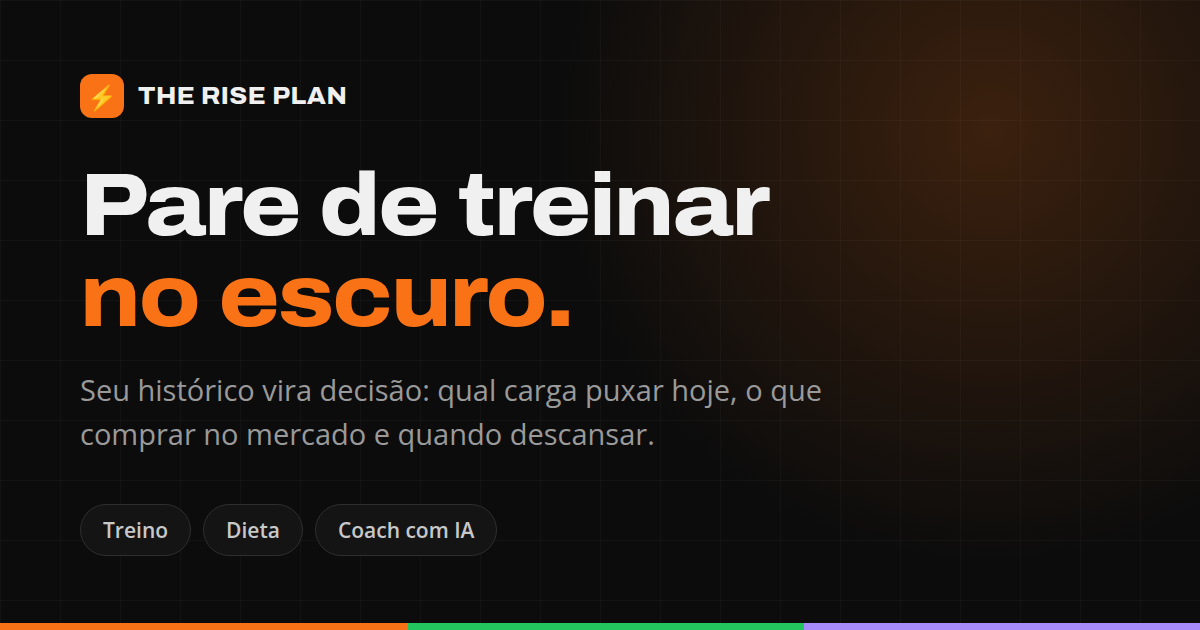
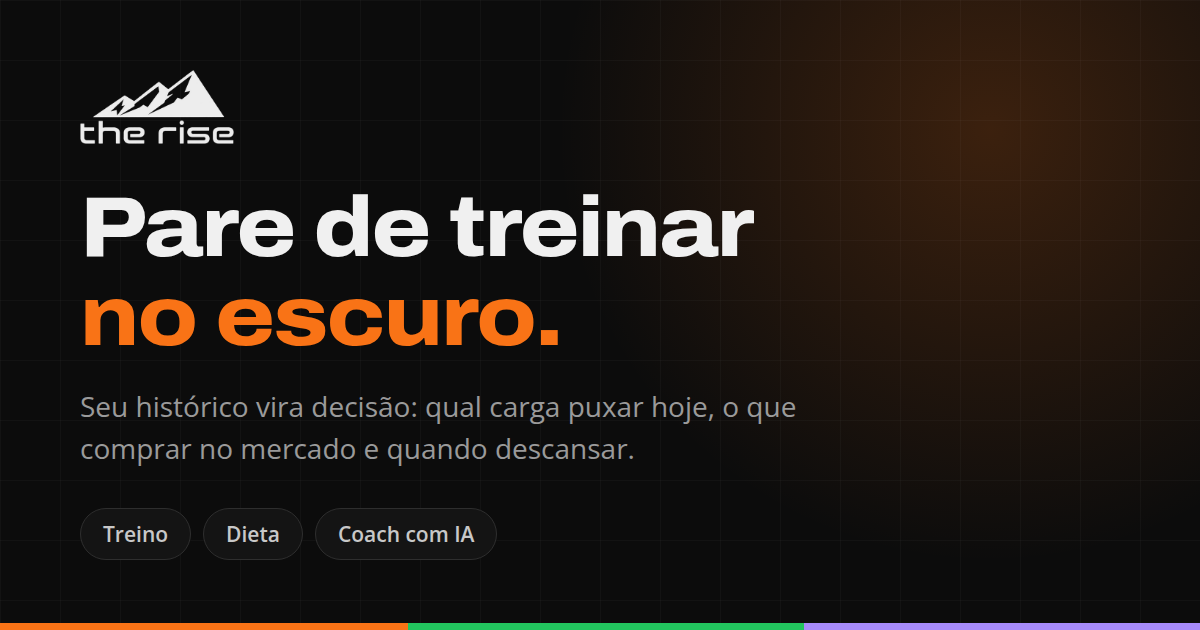
Add new PNG image for rise-mark

diff --git a/produzai/src/index.css b/produzai/src/index.css
@@ -126,6 +126,27 @@
   }
 }
 
+/* ── Marca ────────────────────────────────────────────────────────────────────
+   O logo é um PNG de tinta clara sobre transparente. O SVG antigo trazia um
+   cartão escuro embutido (`<rect fill="#0C0C0C" rx="16">`), que dispensava
+   qualquer cuidado; o novo não traz nada — ele é só a arte. O que vale para
+   TODA tela onde a marca aparece mora aqui, em vez de repetido em cada `style`.
+   ─────────────────────────────────────────────────────────────────────────── */
+.rise-brand {
+  /* Proporção declarada antes de o arquivo chegar, para o layout não mudar
+     quando ele carrega. Medido em rede lenta, o desvio hoje já é ~0 — isto é
+     garantia barata para conexão ruim, não conserto de um bug observado. */
+  aspect-ratio: 570 / 275;
+  /* Marca não é conteúdo: não se seleciona junto com o texto nem se arrasta
+     para fora do app (que num PWA instalado parece defeito). */
+  user-select: none;
+  -webkit-user-select: none;
+  -webkit-user-drag: none;
+}
+
+/* Só a montanha, sem a palavra — proporção bem mais larga. */
+.rise-brand--mark { aspect-ratio: 160 / 58; }
+
 /* Altura de tela cheia que acompanha a barra do navegador móvel.
    `100vh` no iOS é a altura COM a barra escondida: usar só ele deixa o rodapé
    da tela embaixo da barra do Safari. `dvh` sobrescreve onde houver suporte. */
@@ -192,8 +213,8 @@
   .nav-item { @apply flex items-center gap-3 px-3 py-2.5 rounded-xl text-sm font-medium transition-all duration-200 cursor-pointer w-full; }
   .nav-item.active { @apply bg-brand-600/20 text-brand-400; }
   .nav-item:not(.active) { @apply text-gray-500 hover:bg-surface-hover hover:text-gray-200; }
-  .page-title { @apply text-2xl font-bold text-white; font-family: var(--rise-font-display); font-variation-settings: "wdth" 112; letter-spacing: -0.015em; }
+  .page-title { @apply text-2xl font-bold text-white; font-family: var(--rise-font-display); font-variation-settings: "wdth" 112; letter-spacing: 0; }
   .section-label { @apply text-xs font-semibold text-gray-500 uppercase tracking-widest; }
-  .font-display { font-family: var(--rise-font-display); font-variation-settings: "wdth" 112; letter-spacing: -0.015em; }
+  .font-display { font-family: var(--rise-font-display); font-variation-settings: "wdth" 112; letter-spacing: 0; }
 }
 

diff --git a/produzai/src/rise/components/ShareCard.tsx b/produzai/src/rise/components/ShareCard.tsx
@@ -16,7 +16,24 @@ interface Props extends ShareData {
   onClose: () => void
 }
 
-function drawShareCard(canvas: HTMLCanvasElement, data: ShareData): void {
+/**
+ * Carrega uma imagem para o canvas. Devolve `null` em vez de rejeitar: o card
+ * precisa sair mesmo que a marca não carregue — o print é o produto.
+ */
+function loadImage(src: string): Promise<HTMLImageElement | null> {
+  return new Promise(resolve => {
+    const img = new Image()
+    img.onload = () => resolve(img)
+    img.onerror = () => resolve(null)
+    img.src = src
+  })
+}
+
+function drawShareCard(
+  canvas: HTMLCanvasElement,
+  data: ShareData,
+  logo: HTMLImageElement | null,
+): void {
   const ctx = canvas.getContext('2d')
   if (!ctx) return
   const W = 540
@@ -47,11 +64,19 @@ function drawShareCard(canvas: HTMLCanvasElement, data: ShareData): void {
   ctx.fillStyle = '#F97316'
   ctx.fillRect(0, 0, W, 88)
 
-  ctx.font = `bold 25px ${FONT}`
-  ctx.fillStyle = '#fff'
+  // A marca na faixa laranja. O arquivo tem tinta clara, que é o contraste
+  // certo aqui; se ele não carregar, o nome escrito faz o mesmo trabalho.
   ctx.textAlign = 'center'
   ctx.textBaseline = 'middle'
-  ctx.fillText('⚡ THE RISE PLAN', W / 2, 44)
+  if (logo) {
+    const h = 46
+    const w = (logo.width / logo.height) * h
+    ctx.drawImage(logo, (W - w) / 2, (88 - h) / 2, w, h)
+  } else {
+    ctx.font = `bold 25px ${FONT}`
+    ctx.fillStyle = '#fff'
+    ctx.fillText('THE RISE PLAN', W / 2, 44)
+  }
 
   // Week label
   ctx.font = `500 17px ${FONT}`
@@ -180,13 +205,13 @@ export function ShareCard({ onClose, ...data }: Props) {
   useEffect(() => {
     const canvas = canvasRef.current
     if (!canvas) return
-    // Draw after fonts are ready to ensure system fonts are applied
-    const run = () => drawShareCard(canvas, data)
-    if (typeof document.fonts?.ready?.then === 'function') {
-      document.fonts.ready.then(run)
-    } else {
-      run()
-    }
+    // Espera fontes E marca antes de desenhar: o canvas é exportado como está,
+    // então um desenho em duas etapas poderia ser compartilhado pela metade.
+    const fontsReady = typeof document.fonts?.ready?.then === 'function'
+      ? document.fonts.ready
+      : Promise.resolve()
+    Promise.all([fontsReady, loadImage('/rise-logo.png')])
+      .then(([, logo]) => drawShareCard(canvas, data, logo))
   // eslint-disable-next-line react-hooks/exhaustive-deps
   }, [])
 

diff --git a/produzai/src/rise/data.ts b/produzai/src/rise/data.ts
@@ -69,7 +69,16 @@ export const safePlus = (
 // ── Typography ───────────────────────────────────────────────────────────────
 // Archivo is the display face (titles + signature numbers); Open Sans the body.
 // The display look comes from the EXPANDED width axis (wdth 112) — spread
-// `displayStyle` onto a heading/number and keep your own fontSize/weight/color.
+// `displayStyle` onto a heading/number and keep your own fontSize/color.
+//
+// PESO E TRACKING VÊM DAQUI, não do ponto de uso. A marca ("the rise") é
+// monolinear, arredondada e de tracking aberto; títulos em 800 com tracking
+// negativo puxavam para o lado oposto e a tela ficava com duas vozes. 700 e
+// tracking neutro aproximam sem trocar de fonte.
+//
+// Todos os pontos de uso escrevem `fontWeight: ..., ...displayStyle`, com o
+// spread por último — então o peso definido aqui vence. Para um número que
+// precise mesmo de 800, coloque o `fontWeight` DEPOIS do spread.
 export const F = {
   display: '"Archivo", "Open Sans", system-ui, sans-serif',
   body:    '"Open Sans", system-ui, sans-serif',
@@ -78,7 +87,8 @@ export const F = {
 export const displayStyle: CSSProperties = {
   fontFamily: F.display,
   fontVariationSettings: '"wdth" 112',
-  letterSpacing: '-0.015em',
+  letterSpacing: 0,
+  fontWeight: T.weight.bold,
 }
 
 export type Page =

diff --git a/produzai/src/rise/RisePlan.tsx b/produzai/src/rise/RisePlan.tsx
@@ -184,15 +184,16 @@ export function RisePlan() {
           {!isTablet && (
             <div style={{ padding: "0 10px 20px" }}>
               <img
-                src="/rise-plan-logo.svg"
+                className="rise-brand"
+                src="/rise-logo.png"
                 alt="The Rise Plan"
-                style={{ width: "100%", height: "auto", display: "block", borderRadius: T.radius.md }}
+                style={{ width: "100%", height: "auto", display: "block" }}
               />
             </div>
           )}
           {isTablet && (
             <div style={{ display: "flex", justifyContent: "center", paddingBottom: 16 }}>
-              <img src="/rise-plan-logo.svg" alt="Rise" style={{ width: 36, height: 36, borderRadius: T.radius.sm, objectFit: "cover" }} />
+              <img className="rise-brand rise-brand--mark" src="/rise-mark.png" alt="Rise" style={{ width: 44 }} />
             </div>
           )}
 
@@ -372,7 +373,7 @@ export function RisePlan() {
               >
                 ☰
               </button>
-              <img src="/rise-plan-logo.svg" alt="The Rise Plan" style={{ height: 28, borderRadius: T.radius.xs }} />
+              <img className="rise-brand" src="/rise-logo.png" alt="The Rise Plan" style={{ height: 30 }} />
               <button
                 onClick={() => navigate("perfil")}
                 aria-label="Ir para perfil"

diff --git a/produzai/src/rise/pages/Login.tsx b/produzai/src/rise/pages/Login.tsx
@@ -1,5 +1,5 @@
 import { useState } from 'react'
-import { T, C, displayStyle, safeInset } from '../data'
+import { T, C, safeInset } from '../data'
 import { useAuthStore } from '../../store/useAuthStore'
 import { PolicyOverlay } from '../components/ConsentModal'
 
@@ -104,14 +104,13 @@ export function Login({ initialMode = 'login', onBack }: Props) {
 
         {/* Brand */}
         <div style={{ textAlign: 'center', marginBottom: 36 }}>
-          <div style={{
-            width: 60, height: 60, borderRadius: T.radius['2xl'],
-            background: C.orange,
-            display: 'flex', alignItems: 'center', justifyContent: 'center',
-            fontSize: 28, margin: '0 auto 16px',
-          }}>⚡</div>
-          <div style={{ fontSize: T.text['5xl'], fontWeight: T.weight.extrabold, color: C.text, ...displayStyle }}>The Rise Plan</div>
-          <div style={{ fontSize: T.text.md, color: C.muted, marginTop: 4 }}>Performance Total</div>
+          <img
+            className="rise-brand"
+            src="/rise-logo.png"
+            alt="The Rise Plan"
+            style={{ width: 190, display: 'block', margin: '0 auto 12px' }}
+          />
+          <div style={{ fontSize: T.text.md, color: C.muted }}>Performance Total</div>
         </div>
 
         {/* Card */}

diff --git a/produzai/src/rise/pages/Onboarding.tsx b/produzai/src/rise/pages/Onboarding.tsx
@@ -204,7 +204,7 @@ function ConversationalOnboarding({ onSwitchToQuick }: { onSwitchToQuick: () => 
 
         {/* Header */}
         <div style={{ textAlign: 'center', marginBottom: 18 }}>
-          <img src="/rise-plan-logo.svg" alt="The Rise Plan" style={{ width: 120, borderRadius: T.radius.lg, marginBottom: 12 }} />
+          <img className="rise-brand" src="/rise-logo.png" alt="The Rise Plan" style={{ width: 130, marginBottom: 12 }} />
           <div style={{ fontSize: T.text['4xl'], fontWeight: T.weight.extrabold, color: C.text, marginBottom: 4 }}>
             {plan ? 'Seu sistema inicial está pronto ✨' : 'Vamos te conhecer'}
           </div>
@@ -592,7 +592,7 @@ function QuickOnboarding({ onSwitchToChat }: { onSwitchToChat?: () => void }) {
 
         {/* Logo */}
         <div style={{ textAlign: 'center', marginBottom: 32 }}>
-          <img src="/rise-plan-logo.svg" alt="The Rise Plan" style={{ width: 160, borderRadius: T.radius.lg, marginBottom: 16 }} />
+          <img className="rise-brand" src="/rise-logo.png" alt="The Rise Plan" style={{ width: 175, marginBottom: 16 }} />
           <div style={{ fontSize: T.text['5xl'], fontWeight: T.weight.extrabold, color: C.text, marginBottom: 6, ...displayStyle }}>
             Olá, {firstName}! 👋
           </div>

diff --git a/produzai/vite.config.ts b/produzai/vite.config.ts
@@ -62,8 +62,11 @@ export default defineConfig(({ mode }) => {
         lang: 'pt-BR',
         categories: ['fitness', 'health', 'lifestyle'],
         icons: [
-          { src: '/favicon.svg', sizes: 'any', type: 'image/svg+xml', purpose: 'any' },
-          { src: '/favicon.svg', sizes: 'any', type: 'image/svg+xml', purpose: 'maskable' },
+          { src: '/pwa-192.png', sizes: '192x192', type: 'image/png', purpose: 'any' },
+          { src: '/pwa-512.png', sizes: '512x512', type: 'image/png', purpose: 'any' },
+          // A `maskable` recua a arte: o sistema recorta até 20% de cada borda
+          // para encaixar o ícone no formato do aparelho.
+          { src: '/pwa-maskable-512.png', sizes: '512x512', type: 'image/png', purpose: 'maskable' },
         ],
       },
     }),

diff --git a/produzai/src/lib/notifications.ts b/produzai/src/lib/notifications.ts
@@ -21,7 +21,7 @@ export async function requestPermission(): Promise<NotificationPermission> {
 
 export function show(title: string, body: string) {
   if (Notification.permission !== 'granted') return
-  new Notification(title, { body, icon: '/favicon.svg', badge: '/favicon.svg' })
+  new Notification(title, { body, icon: '/pwa-192.png', badge: '/favicon.png' })
 }
 
 // ── Periodic Background Sync ──────────────────────────────────────────────────

diff --git a/produzai/index.html b/produzai/index.html
@@ -5,8 +5,8 @@
     <meta name="viewport" content="width=device-width, initial-scale=1.0, viewport-fit=cover">
 
     <!-- PWA primary -->
-    <link rel="icon" type="image/svg+xml" href="/favicon.svg">
-    <link rel="apple-touch-icon" href="/favicon.svg">
+    <link rel="icon" type="image/png" href="/favicon.png">
+    <link rel="apple-touch-icon" href="/apple-touch-icon.png">
     <meta name="theme-color" content="#F97316">
 
     <!-- PWA standalone behavior -->

diff --git a/produzai/src/rise/pages/Landing.tsx b/produzai/src/rise/pages/Landing.tsx
@@ -70,9 +70,10 @@ export function Landing({ onEnter }: Props) {
         gap: 12, padding: `16px ${pad}px`, maxWidth: 1080, margin: '0 auto',
       }}>
         <img
-          src="/rise-plan-logo.svg"
+          className="rise-brand"
+          src="/rise-logo.png"
           alt="The Rise Plan"
-          style={{ height: 34, borderRadius: T.radius.sm }}
+          style={{ height: 42 }}
         />
         <button
           onClick={() => onEnter('login')}

diff --git a/produzai/src/App.tsx b/produzai/src/App.tsx
@@ -71,8 +71,7 @@ export default function App() {
         gap: 16,
         color: C.text,
       }}>
-        <div style={{ fontSize: 48 }}>⚡</div>
-        <div style={{ fontSize: 16, fontWeight: 700 }}>The Rise Plan</div>
+        <img className="rise-brand" src="/rise-logo.png" alt="The Rise Plan" style={{ width: 170 }} />
         <div style={{ fontSize: 13, color: C.muted }}>Carregando...</div>
       </div>
     )

diff --git a/produzai/src/rise/pages/TrainerView.tsx b/produzai/src/rise/pages/TrainerView.tsx
@@ -45,7 +45,7 @@ export function TrainerView({ token }: Props) {
     return (
       <Shell>
         <div style={{ textAlign: 'center', padding: '80px 0', color: C.muted }}>
-          <div style={{ fontSize: 40, marginBottom: 12 }}>⚡</div>
+          <img className="rise-brand" src="/rise-logo.png" alt="The Rise Plan" style={{ width: 150, marginBottom: 12 }} />
           Carregando...
         </div>
       </Shell>
